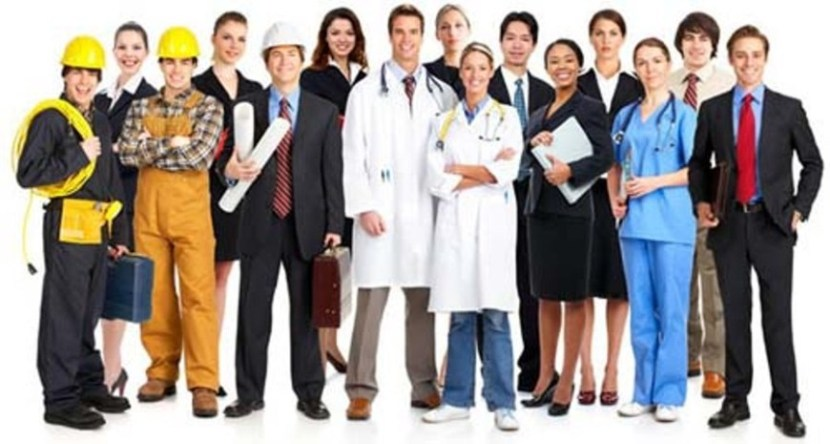
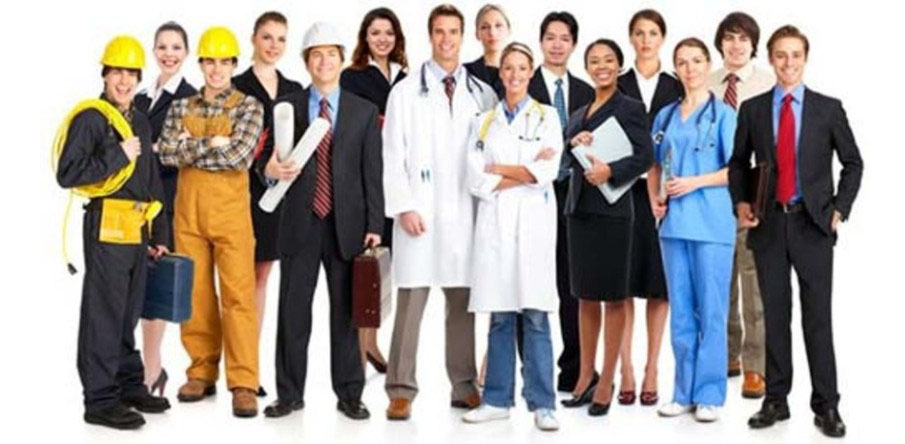
layout final cliente

diff --git a/pages/cadastre-se.php b/pages/cadastre-se.php
@@ -94,7 +94,7 @@ if ($_POST['cadastrar'] == 'Cadastrar') {
           </div>
         </div>
         <div class="item">
-          <img src="images/imagem1.png" class="img-responsive" alt="Second slide">
+          <img src="images/imagem1.jpg" class="img-responsive" alt="Second slide">
           <div class="container">
             <div class="carousel-caption">
               <h1>Pronto para atender sua necessidade.</h1>
